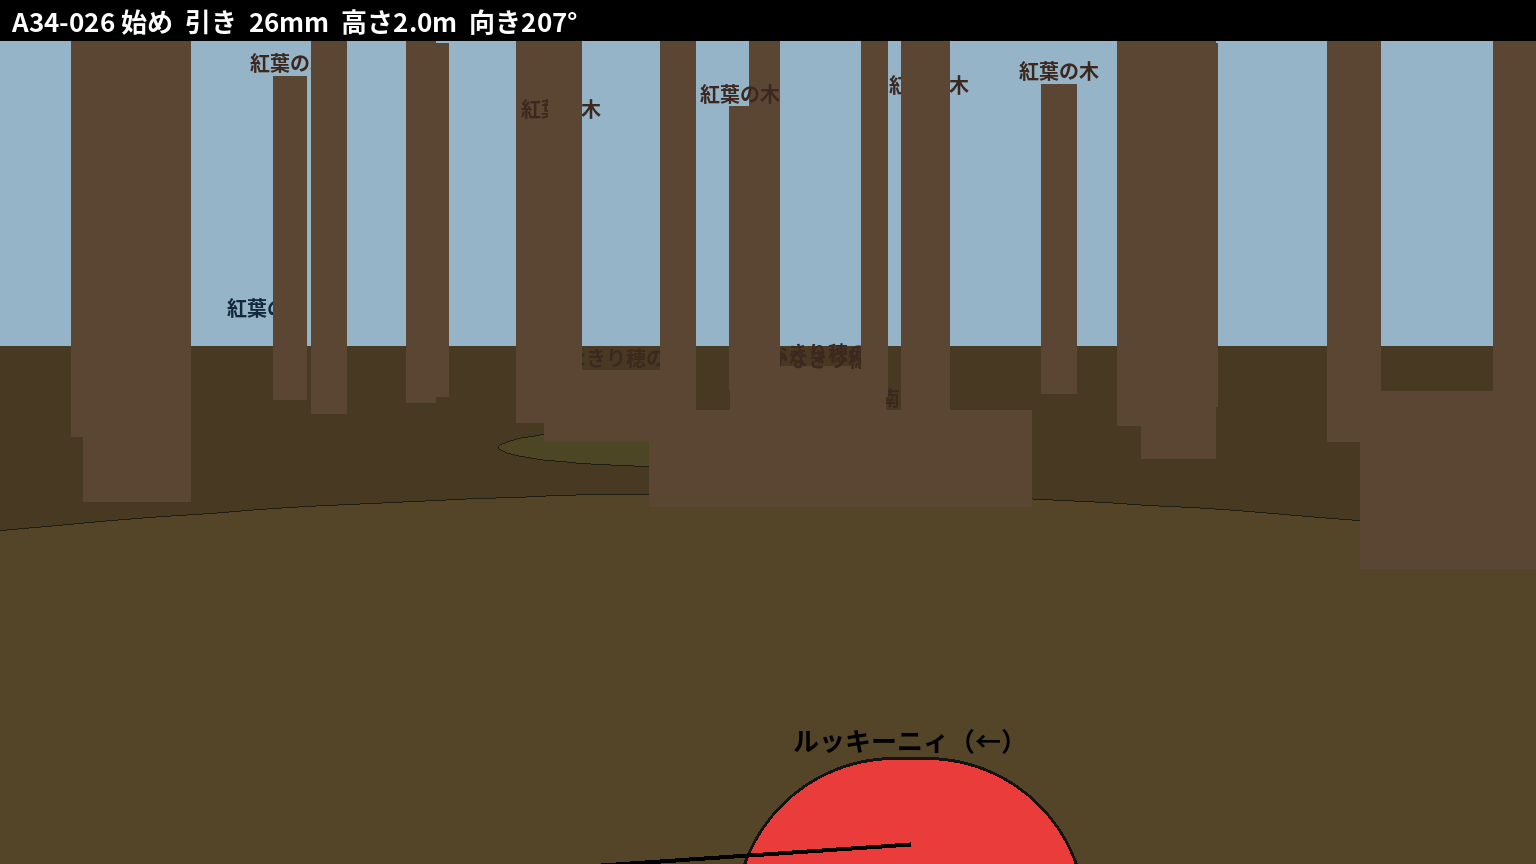
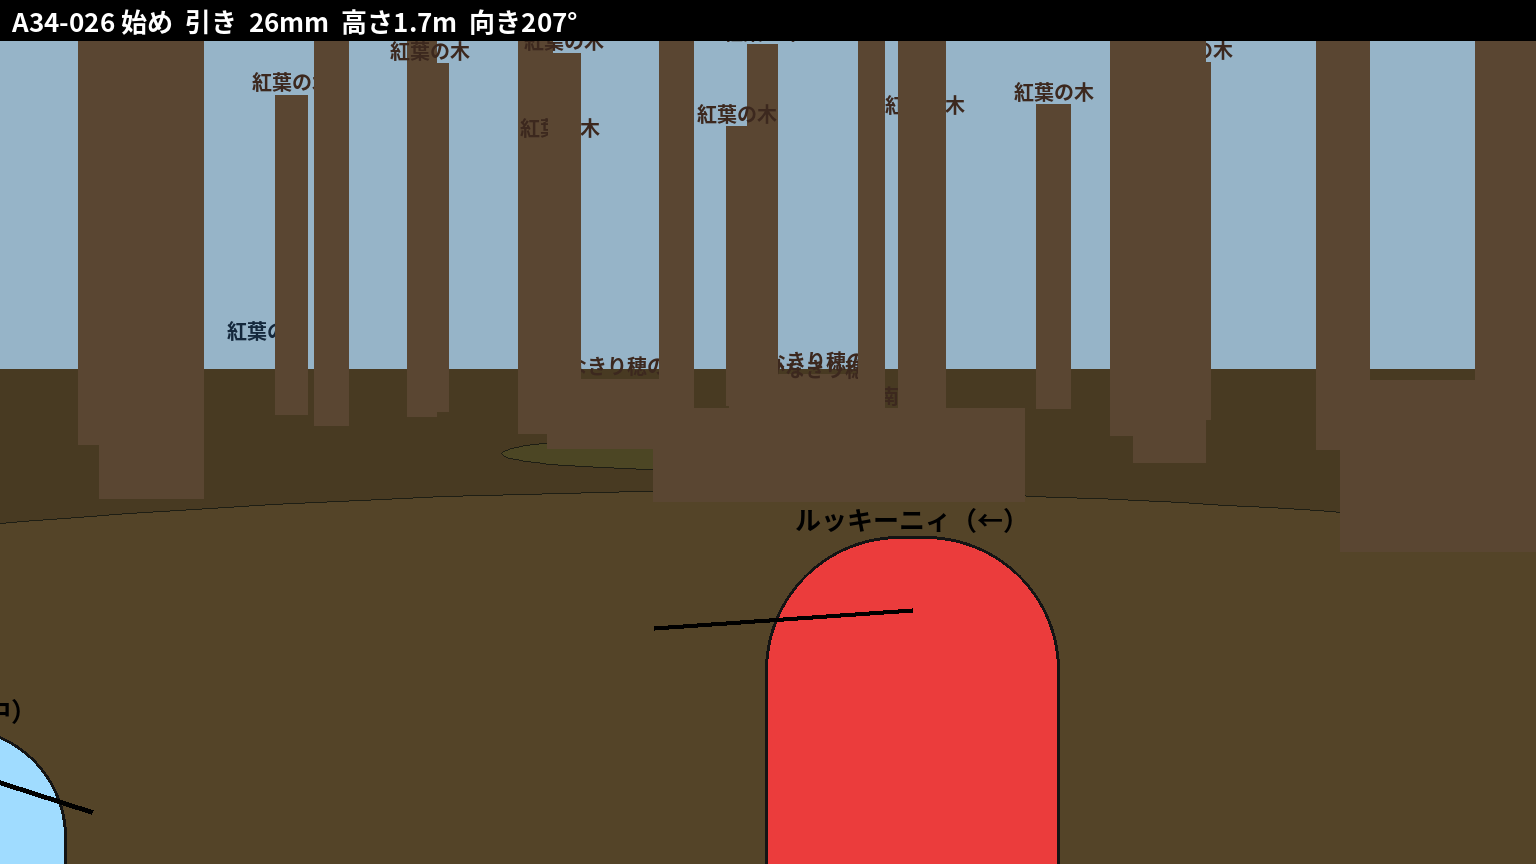
7章 回1: 書き出しの見直しで A34-023・026、A37 の湯気、A39-011 を直した
- A34-023 はミトンが画面の外だったので引いて二人を入れ、A34-026 はルッキーニィの背中越しを低く
- A37 の湯気（白い玉）としぶきが近い画で画面をふさいでいたので、小さく薄くした（003〜011）
- A39-011 はおじぎでアルレッキーノの体が画面をふさいでいたので、カメラを南へ引いた
- docs/log.md に書き出しと見直しの記録

Claude-Session: https://claude.ai/code/session_01FyK1WejaBx7eXrRninxyyu

diff --git a/docs/log.md b/docs/log.md
@@ -14,6 +14,8 @@
   - **音**: BGM は原作どおり（`tools/bgm_split.py` でパート24・25 を曲に分けた）。新しい曲 M43「ブリダンゴ姫」（ミトンの場面でくり返し流れる。パート24 の3か所とパート25 の2か所は同じ曲、約90.7秒のループ）と M44「チンクエの森」を `audio/bgm/catalog.yaml`・`docs/audio_catalog.md` に足し、試聴用の mp3 を Drive「原作音源/BGM/」に置いた（耳では確かめていない）。馬車の音（蹄と車輪）は手持ちの効果音にないので仮の低いうなり。
   - **道具**: `tools/previs.py` の `prim()` を速くした（同じ形の部品はメッシュを複製して作る。bpy.ops の追加は物が増えるほど遅く、森の 725 個の部品で 26 秒 → 12 秒）。森・議会室・居間・バスルームで描いた画は前と同じ（差は JPEG のわずかなノイズだけ）。
   - **ミトンの臭い**: 漫符ではなく、ミトンに付いて動く黄緑の薄い気配（fx mist）。寄り・胸上・膝上では出さない（画面をふさぐため）。
+  - **下絵の書き出しと見直し**: 193カットすべてを 640x360・1秒6コマで書き出した（`previs/A33`〜`A40`）。全カットの始め・中ほど・終わりのコマを並べて見て、カメラが人形・ゴミの山の中に入る所、近すぎて頭で画面がふさがる所、湯気や吐き出しが画面を覆う所を直して書き出し直した（A33-003・025・047・050・053、A34-009・023・026、A35-011、A37-003〜011（湯気を小さく薄く）、A39-011、A40-001）。`tools/black_check.py` で真っ黒なコマは 0。
+  - **通しの動画**: 各場面の `previs/<場面>/<場面>_previs_reel.mp4`（声・BGM・効果音入り、854x480）。A33 は 94MB になったので、ノイズを抑えて（hqdn3d、crf 25）縮めた。Living Spec に「A33〜A40 動きの設計（案）」の8タブ。
 - （提案 2026-11-06、7章 回1。Living Spec の各場面の「動きの設計（案）」タブの「確かめたいこと」）
   - 7-03（出発前のルッキーニィの本音）を、準備（案）の場所の資料（チンクエの森とゴミ山、7-03〜7-09）に合わせて A34 の頭（紅嵐街道から森へ入る所）に移した。A33 は章の題で終わる（冒頭→題の形）。
   - L1281（「お礼と言っては何なんですけど、後でボクの得意料理をご馳走しますから。」）を戻した。準備（案）は 7-04 の「お礼の約束」を削る案だが、7-05 の「では、これがお約束したボクの得意料理です」が残るので、その前ふりとして要る。

diff --git a/episodes/A/scenes/A34/gen/staging_report.md b/episodes/A/scenes/A34/gen/staging_report.md
@@ -27,7 +27,7 @@
 | 020 | 寄り | ゴミ山の広場（土と苔）・低め・35mm・311° | ミ（中央・背中） | ミ（中央・正面） | 紅葉の森 |
 | 021 | 膝上 | ゴミ山の広場（土と苔）・地面すれすれ・22mm・138° | ル（中央・正面）、百（中央・正面） | ル（中央・正面）、百（中央・正面） | 紅葉の森 |
 | 022 | 全身 | ゴミ山の広場（土と苔）・28mm・270° | ミ（中央・正面） | ル（左・背中）、ミ（中央・斜め前（画面右向き）） | 紅葉の森 |
-| 023 | 全身 | ゴミ山の広場（土と苔）・28mm・171° | 百（中央・斜め前（画面右向き））、ル（中央・斜め後ろ（画面右向き）） | 百（中央・斜め前（画面右向き））、ル（中央・斜め前（画面右向き）） | 紅葉の森 |
+| 023 | 全身 | ゴミ山の広場（土と苔）・24mm・192° | 百（左・斜め前（画面右向き））、ル（左・斜め後ろ（画面右向き））、ミ（右・正面） | 百（左・斜め前（画面右向き））、ル（左・斜め前（画面右向き））、ミ（右・正面） | 紅葉の森 |
 | 024 | 膝上 | ゴミ山の広場（土と苔）・低め・28mm・285° | ル（中央・背中）、ミ（中央・斜め前（画面右向き）） | ル（中央・正面）、ミ（右・斜め前（画面右向き）） | 紅葉の森 |
 | 025 | 全身 | ゴミ山の広場（土と苔）・28mm・35° | ル（左・斜め前（画面右向き））、百（右・斜め前（画面左向き）） | ル（左・斜め前（画面右向き））、百（右・正面） | 紅葉の森 |
 | 026 | 引き | ゴミ山の広場（土と苔）・26mm・207° | ル（中央・横顔（画面左向き）） | 百（左・背中）、ル（中央・背中） | 紅葉の森 |

diff --git a/episodes/A/scenes/A39/gen/staging_report.md b/episodes/A/scenes/A39/gen/staging_report.md
@@ -15,7 +15,7 @@
 | 008 | 全身 | 高台の東・28mm・249° | メ（左・斜め後ろ（画面右向き））、ビ（中央・斜め前（画面左向き））、百（右・横顔（画面左向き）） | メ（左・斜め後ろ（画面右向き））、ビ（中央・斜め前（画面左向き））、百（右・横顔（画面左向き）） | 居間の壁 |
 | 009 | 胸上 | 高台の東・30mm・310° | ビ（中央・正面） | ビ（中央・横顔（画面右向き）） | 居間の壁 |
 | 010 | 膝上 | 高台の東・28mm・123° | 百（左・横顔（画面右向き））、メ（中央・正面）、ア（中央・正面）、ビ（右・横顔（画面左向き）） | 百（左・横顔（画面右向き））、メ（中央・背中）、ア（中央・正面）、ビ（右・横顔（画面左向き）） | 居間の壁 |
-| 011 | 膝上 | 高台の東・低め・24mm・153° | ア（中央・正面） | ア（中央・正面） | 居間の壁 |
+| 011 | 膝上 | 高台の東・低め・26mm・164° | ア（中央・正面） | ア（中央・正面） | 居間の壁 |
 | 012 | 胸上 | 高台の東・35mm・256° | ビ（中央・正面）、百（右・斜め前（画面左向き）） | ビ（中央・斜め前（画面左向き））、百（右・斜め前（画面左向き）） | 居間の壁 |
 | 013 | 全身 | 高台の東・26mm・270° | メ（中央・斜め後ろ（画面右向き））、ビ（中央・正面）、百（中央・斜め前（画面左向き）） | メ（左・横顔（画面右向き））、ビ（中央・横顔（画面右向き））、百（右・斜め後ろ（画面右向き）） | 居間の壁 |
 
